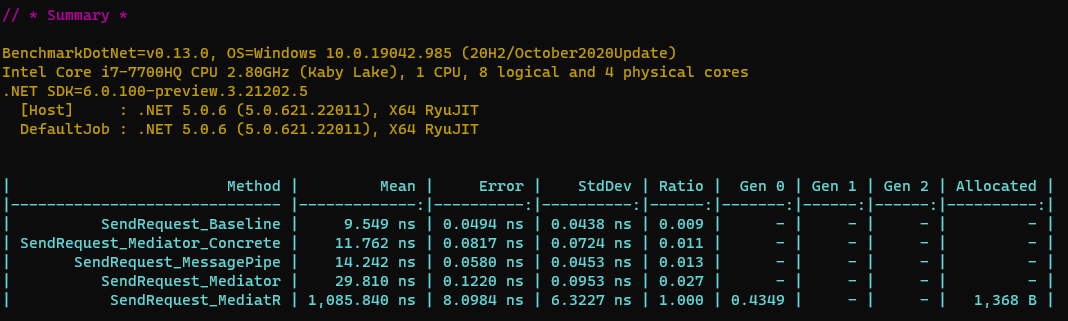
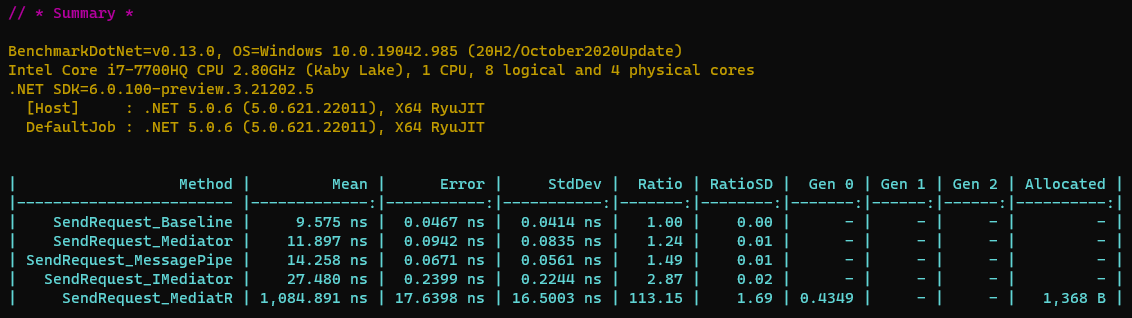
docs

Changed region(s): [[0.0, 0.5377, 1.0, 0.9623], [0.0, 0.1415, 0.7107, 0.4245], [0.0, 0.0283, 0.1236, 0.0849]]

diff --git a/benchmarks/Mediator.Benchmarks/Request/StructRequestBenchmarks.cs b/benchmarks/Mediator.Benchmarks/Request/StructRequestBenchmarks.cs
@@ -78,20 +78,20 @@ namespace Mediator.Benchmarks.Request
             (_serviceProvider as IDisposable)?.Dispose();
         }
 
-        [Benchmark(Baseline = true)]
+        [Benchmark]
         public Task<SomeResponse> SendStructRequest_MediatR()
         {
             return _mediatr.Send(_request, CancellationToken.None);
         }
 
         [Benchmark]
-        public ValueTask<SomeResponse> SendStructRequest_Mediator()
+        public ValueTask<SomeResponse> SendStructRequest_IMediator()
         {
             return _mediator.Send(_request, CancellationToken.None);
         }
 
         [Benchmark]
-        public ValueTask<SomeResponse> SendStructRequest_Mediator_Concrete()
+        public ValueTask<SomeResponse> SendStructRequest_Mediator()
         {
             return _concreteMediator.Send(in _request, CancellationToken.None);
         }
@@ -102,7 +102,7 @@ namespace Mediator.Benchmarks.Request
             return _messagePipeHandler.InvokeAsync(_request, CancellationToken.None);
         }
 
-        [Benchmark]
+        [Benchmark(Baseline = true)]
         public ValueTask<SomeResponse> SendStructRequest_Baseline()
         {
             return _handler.Handle(_request, CancellationToken.None);

diff --git a/benchmarks/Mediator.Benchmarks/Request/RequestBenchmarks.cs b/benchmarks/Mediator.Benchmarks/Request/RequestBenchmarks.cs
@@ -64,20 +64,20 @@ namespace Mediator.Benchmarks.Request
             (_serviceProvider as IDisposable)?.Dispose();
         }
 
-        [Benchmark(Baseline = true)]
+        [Benchmark]
         public Task<SomeResponse> SendRequest_MediatR()
         {
             return _mediatr.Send(_request, CancellationToken.None);
         }
 
         [Benchmark]
-        public ValueTask<SomeResponse> SendRequest_Mediator()
+        public ValueTask<SomeResponse> SendRequest_IMediator()
         {
             return _mediator.Send(_request, CancellationToken.None);
         }
 
         [Benchmark]
-        public ValueTask<SomeResponse> SendRequest_Mediator_Concrete()
+        public ValueTask<SomeResponse> SendRequest_Mediator()
         {
             return _concreteMediator.Send(_request, CancellationToken.None);
         }
@@ -88,7 +88,7 @@ namespace Mediator.Benchmarks.Request
             return _messagePipeHandler.InvokeAsync(_request, CancellationToken.None);
         }
 
-        [Benchmark]
+        [Benchmark(Baseline = true)]
         public ValueTask<SomeResponse> SendRequest_Baseline()
         {
             return _handler.Handle(_request, CancellationToken.None);

diff --git a/README.md b/README.md
@@ -5,28 +5,27 @@
 # Mediator
 
 This is a high performance .NET implementation of the Mediator pattern using the [source generators](https://devblogs.microsoft.com/dotnet/introducing-c-source-generators/) feature introduced in .NET 5.
-The API and usage is mostly based on the great [MediatR](https://github.com/jbogard/MediatR) library, one of the few deviations is in the delegate signature used for pipeline behaviors to allow for less allocations.
+The API and usage is mostly based on the great [MediatR](https://github.com/jbogard/MediatR) library, with some deviations to allow for better performance.
 
 The mediator pattern is great for implementing cross cutting concern (logging, metrics, etc) and avoiding "fat" constructors due to lots of injected services.
 
 > **NOTE**
 > In preview
 
-Using source generators instead of relying on reflection has multiple benefits
+Goals for this library
+* High performance
+  * Runtime performance can be the same for both runtime reflection and source generator based approaches, but it's easier to optimize in the latter case
 * AOT friendly
-  * Faster startup - build time reflection instead of runtime/startup reflection
+  * MS are investing time in various AOT scenarios, and for example iOS requirees AOT compilation
 * Build time errors instead of runtime errors
-* Better performance
-  * Runtime performance can be the same for both runtime reflection and source generator based approaches, but it's easier to optimize. High performance runtime reflection based implementation would rely on emitting IL which is hard to deal with in many ways. The source generator emitted code can be easily inspected and analyzed as any other C# code.
-* More flexibility
-  * Through the use of options (for example `[assembly: MediatorOptions(Namespace = "SimpleConsole.Mediator")]`) we can achieve more flexibility.
+  * The generator includes diagnostics, i.e. if a handler is not defined for a request, a warning is emitted
 
 In particular, source generators in this library is used to
 * Generate code for DI registration
-  * Includes polymorphic dispatch and constrained generics in pipeline steps and notification handlers.
 * Generate code for `IMediator` implementation
-  * Request/Command/Query `Send` methods are monomorphized (1 method per T), the generic `ISender.Send` methods rely on these.
-  * You can use both `IMediator` and `Mediator`, the latter allows for better performance.
+  * Request/Command/Query `Send` methods are monomorphized (1 method per T), the generic `ISender.Send` methods rely on these
+  * You can use both `IMediator` and `Mediator`, the latter allows for better performance
+* Generate diagnostics related messages and message handlers
 
 - [Mediator](#mediator)
   - [2. Benchmarks](#2-benchmarks)
@@ -51,6 +50,12 @@ This benchmark exposes the perf overhead of the libraries.
 Mediator (this library) and MediatR methods show the overhead of the respective mediator implementations.
 I've also included the [MessagePipe](https://github.com/Cysharp/MessagePipe) library as it also has great performance.
 
+* SendRequest_Baseline: simple method call into the handler class
+* SendRequest_Mediator: the concrete `Mediator` class generated by this library
+* SendRequest_MessagePipe: the [MessagePipe](https://github.com/Cysharp/MessagePipe) library
+* SendRequest_IMediator: call through the `IMediator` interface in this library
+* SendRequest_MediatR: the [MediatR](https://github.com/jbogard/MediatR) library
+
 See [benchmarks code](/benchmarks/Mediator.Benchmarks/Request/RequestBenchmarks.cs) for more details on the measurement.
 
 ![Requests benchmark](/img/request_benchmark.png "Requests benchmark")
@@ -64,7 +69,7 @@ There are two NuGet packages needed to use this library
   * Message types (`IRequest<,>`, `INotification`), handler types (`IRequestHandler<,>`, `INotificationHandler<>`), pipeline types (`IPipelineBehavior`)
 
 You install the source generator package into your edge/outermost project (i.e. ASP.NET Core application, Background worker project),
-and then use the `Mediator` package wherever you defined message types and handlers.
+and then use the `Mediator` package wherever you define message types and handlers.
 Standard message handlers are automatically picked up and added to the DI container in the generated `AddMediator` method.
 Pipeline behaviors need to be added manually.
 
@@ -74,14 +79,17 @@ See the [ASP.NET sample](/samples/ASPNET_CleanArchitecture) for a more real worl
 ### 3.1. Message types
 
 * `IMessage` - marker interface
+* `IBaseRequest` - market interface for requests
 * `IRequest` - a request message, no return value (`ValueTask<Unit>`)
 * `IRequest<out TResponse>` - a request message with a response (`ValueTask<TResponse>`)
+* `IBaseCommand` - marker interface for commands
 * `ICommand` - a command message, no return value (`ValueTask<Unit>`)
 * `ICommand<out TResponse>` - a command message with a response (`ValueTask<TResponse>`)
+* `IBaseQuery` - marker interface for queries
 * `IQuery<out TResponse>` - a query message with a response (`ValueTask<TResponse>`)
 * `INotification` - a notification message, no return value (`ValueTask`)
 
-As you can see, you can achieve the exact same thing with requests, commands and queries. But I find the distinction in naming useful if you for example use the CQRS pattern or for some reason have a preference on naming in your application. In the future this could even be configurable as the source generator could generate anything.
+As you can see, you can achieve the exact same thing with requests, commands and queries. But I find the distinction in naming useful if you for example use the CQRS pattern or for some reason have a preference on naming in your application.
 
 ### 3.2. Handler types
 
@@ -97,7 +105,6 @@ These types are used in correlation with the message types above.
 ### 3.3. Pipeline types
 
 * `IPipelineBehavior<TMessage, TResponse>`
-
 
 ```csharp
 public sealed class GenericHandler<TMessage, TResponse> : IPipelineBehavior<TMessage, TResponse>

diff --git a/benchmarks/README.md b/benchmarks/README.md
@@ -2,44 +2,18 @@
 
 Here are some of the benchmarks I've run on my slightly old development laptop.
 
+Naming convention:
+* <name>_Baseline: simple method call into the handler class
+* <name>_Mediator: the concrete `Mediator` class generated by this library
+* <name>_MessagePipe: the [MessagePipe](https://github.com/Cysharp/MessagePipe) library
+* <name>_IMediator: call through the `IMediator` interface in this library
+* <name>_MediatR: the [MediatR](https://github.com/jbogard/MediatR) library
+
 ### Requests
 
-``` ini
-
-BenchmarkDotNet=v0.13.0, OS=Windows 10.0.19042.985 (20H2/October2020Update)
-Intel Core i7-7700HQ CPU 2.80GHz (Kaby Lake), 1 CPU, 8 logical and 4 physical cores
-.NET SDK=6.0.100-preview.3.21202.5
-  [Host]     : .NET 5.0.6 (5.0.621.22011), X64 RyuJIT
-  DefaultJob : .NET 5.0.6 (5.0.621.22011), X64 RyuJIT
-
-
-```
-|                        Method |         Mean |     Error |    StdDev | Ratio |  Gen 0 | Gen 1 | Gen 2 | Allocated |
-|------------------------------ |-------------:|----------:|----------:|------:|-------:|------:|------:|----------:|
-|          SendRequest_Baseline |     9.549 ns | 0.0494 ns | 0.0438 ns | 0.009 |      - |     - |     - |         - |
-| SendRequest_Mediator_Concrete |    11.762 ns | 0.0817 ns | 0.0724 ns | 0.011 |      - |     - |     - |         - |
-|       SendRequest_MessagePipe |    14.242 ns | 0.0580 ns | 0.0453 ns | 0.013 |      - |     - |     - |         - |
-|          SendRequest_Mediator |    29.810 ns | 0.1220 ns | 0.0953 ns | 0.027 |      - |     - |     - |         - |
-|           SendRequest_MediatR | 1,085.840 ns | 8.0984 ns | 6.3227 ns | 1.000 | 0.4349 |     - |     - |   1,368 B |
-
+![Requests benchmark](/img/request_benchmark.png "Requests benchmark")
 
 ### Big struct requests
 
-``` ini
-
-BenchmarkDotNet=v0.13.0, OS=Windows 10.0.19042.985 (20H2/October2020Update)
-Intel Core i7-7700HQ CPU 2.80GHz (Kaby Lake), 1 CPU, 8 logical and 4 physical cores
-.NET SDK=6.0.100-preview.3.21202.5
-  [Host]     : .NET 5.0.6 (5.0.621.22011), X64 RyuJIT
-  DefaultJob : .NET 5.0.6 (5.0.621.22011), X64 RyuJIT
-
-
-```
-|                              Method |         Mean |      Error |     StdDev | Ratio |  Gen 0 | Gen 1 | Gen 2 | Allocated |
-|------------------------------------ |-------------:|-----------:|-----------:|------:|-------:|------:|------:|----------:|
-|          SendStructRequest_Baseline |     9.866 ns |  0.3014 ns |  0.3918 ns | 0.009 |      - |     - |     - |         - |
-| SendStructRequest_Mediator_Concrete |    16.580 ns |  0.0835 ns |  0.0781 ns | 0.015 |      - |     - |     - |         - |
-|       SendStructRequest_MessagePipe |    25.852 ns |  0.2399 ns |  0.2244 ns | 0.023 |      - |     - |     - |         - |
-|          SendStructRequest_Mediator |    50.425 ns |  0.3834 ns |  0.3202 ns | 0.044 | 0.0280 |     - |     - |      88 B |
-|           SendStructRequest_MediatR | 1,133.261 ns | 19.6696 ns | 18.3989 ns | 1.000 | 0.4635 |     - |     - |   1,456 B |
+![Big struct requests benchmark](/img/struct_request_benchmark.png "Big struct requests benchmark")
 
